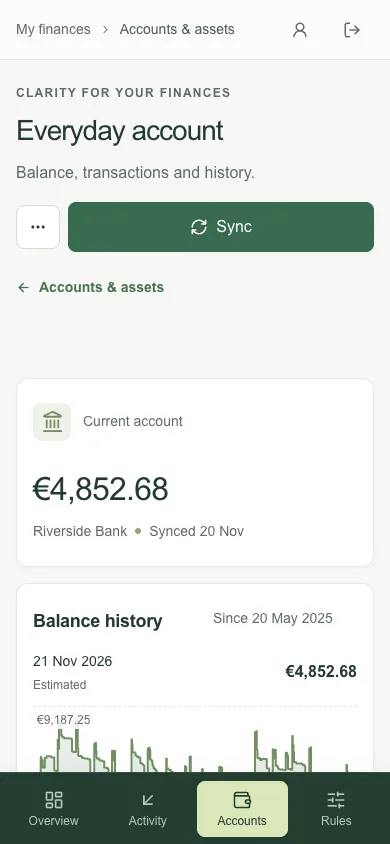
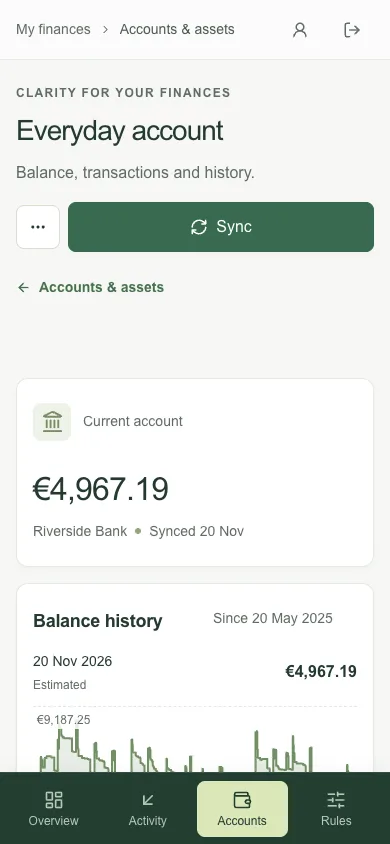
Link demo bank bookings to the sync runs that fetched them (#323)
Demo bank bookings carry bank:demo: references and link to the sync runs that
fetched them, so recent syncs show linked counts; the README screenshots and
setup docs are refreshed.

diff --git a/src/features/demo/server/demo-dataset.ts b/src/features/demo/server/demo-dataset.ts
@@ -19,6 +19,8 @@ export type DemoAccountData = DemoAccountDefinition & {
   valuations: DemoSnapshot[];
   /** The balance at the end of the last synced day; bank-connected accounts report it as their latest bank balance. */
   reported: DemoSnapshot;
+  /** The start of the recorded sync run that fetched a booking, by reference. */
+  importedAt: Record<string, string>;
 };
 
 /** A booking divided into category parts that add up to its amount, as a person does in the split dialog. */
@@ -237,6 +239,9 @@ class Ledger {
 
   readonly splits: DemoSplit[] = [];
 
+  /** The start of the sync run that fetched a bank booking, by reference; older bookings arrived before the recorded history. */
+  readonly importedAt = new Map<string, string>();
+
   readonly openings = {
     ...openingBalances
   };
@@ -272,7 +277,9 @@ class Ledger {
     }
 
     this.sequence += 1;
-    const reference = `${demoReferencePrefix}${String(this.sequence).padStart(5, "0")}`;
+    // Bank-connected bookings carry a bank reference, so recent syncs can show the bookings they fetched.
+    const prefix = demoAccounts[account].bank ? `bank:${demoReferencePrefix}` : demoReferencePrefix;
+    const reference = `${prefix}${String(this.sequence).padStart(5, "0")}`;
 
     this.entries[account].push({
       reference,
@@ -917,7 +924,12 @@ function accountData(ledger: Ledger, key: DemoAccountKey, valuations: DemoSnapsh
     reported: {
       date: reportedDate.toString(),
       amount: ledger.balanceAt(key, reportedDate)
-    }
+    },
+    importedAt: Object.fromEntries(ledger.entries[key].flatMap(entry => {
+      const importedAt = ledger.importedAt.get(entry.reference);
+
+      return importedAt ? [[entry.reference, importedAt]] : [];
+    }))
   };
 }
 
@@ -956,9 +968,8 @@ function connectionData(runDate: PlainDate) {
 function syncRunHistory(ledger: Ledger, random: DemoRandom): DemoSyncRun[] {
   const bankAccounts = (Object.keys(demoAccounts) as DemoAccountKey[]).filter(key => demoAccounts[key].bank);
   const runs: DemoSyncRun[] = [];
-
-  const bookedOn = (key: DemoAccountKey, date: PlainDate) => ledger.entries[key].filter(entry => entry.date === date.toString()).length;
-  let missed = 0;
+  const bookedOn = (key: DemoAccountKey, date: PlainDate) => ledger.entries[key].filter(entry => entry.date === date.toString());
+  let missed: Entry[] = [];
 
   for (let daysAgo = 14; daysAgo >= 1; daysAgo--) {
     const date = ledger.runDate.subtract({
@@ -968,18 +979,23 @@ function syncRunHistory(ledger: Ledger, random: DemoRandom): DemoSyncRun[] {
       days: 1
     });
     const failed = daysAgo === 4;
-    const insertedCount = bankAccounts.filter(key => !failed || key !== "onlineChecking").reduce((total, key) => total + bookedOn(key, booked), missed);
-
-    // The next run fetches what the failed run missed.
-    missed = failed ? bookedOn("onlineChecking", booked) : 0;
     const minute = random.integer(0, 4);
+    const startedAt = syncInstant(date, minute);
+    // Each run fetches the previous day's bookings; the run after the failed one also fetches what it missed.
+    const fetched = [...missed, ...bankAccounts.filter(key => !failed || key !== "onlineChecking").flatMap(key => bookedOn(key, booked))];
+
+    missed = failed ? bookedOn("onlineChecking", booked) : [];
+
+    for (const entry of fetched) {
+      ledger.importedAt.set(entry.reference, startedAt);
+    }
 
     runs.push({
       id: `demo-sync-run-${date.toString()}`,
-      startedAt: syncInstant(date, minute),
+      startedAt,
       finishedAt: syncInstant(date, minute + 1),
       status: failed ? "PARTIAL" : "SUCCESS",
-      insertedCount,
+      insertedCount: fetched.length,
       error: failed ? `${demoAccounts.onlineChecking.name}: The bank did not respond in time. Try again later.` : null
     });
   }

diff --git a/tests/demo-seed.test.ts b/tests/demo-seed.test.ts
@@ -12,7 +12,7 @@ import { buildDemoDataset } from "../src/features/demo/server/demo-dataset";
 import { DemoSeedRefusal, seedDemoData } from "../src/features/demo/server/demo-seed-service";
 import { listAccounts } from "../src/features/accounts/server/account-queries";
 import { pairAllTransfers } from "../src/features/transactions/server/transfer-pairing-repository";
-import { listSyncAccounts } from "../src/features/banking/server/sync-repository";
+import { linkedTransactionCount, listSyncAccounts } from "../src/features/banking/server/sync-repository";
 
 const firstRun = Temporal.PlainDate.from("2026-11-16");
 const secondRun = Temporal.PlainDate.from("2026-12-01");
@@ -173,7 +173,7 @@ test("re-running the demo seed replaces only demo rows and keeps bank-connected 
   assert.equal(seeded.length, expected + balanceBookings.length);
   assert.equal(balanceBookings.filter(row => row.type === "opening_balance").length, 10);
   // Counterparts the seed creates on a manual account carry their source booking in the reference, as when a person creates them; balances are booked as a person enters them.
-  assert.ok(seeded.every(row => ["demo:", "transfer:", "manual:"].some(prefix => row.provider_reference.startsWith(prefix))));
+  assert.ok(seeded.every(row => ["demo:", "bank:demo:", "transfer:", "manual:"].some(prefix => row.provider_reference.startsWith(prefix))));
   assert.equal(demoAccounts.length, 10);
   // Market values end on their last valuation; every other balance follows from the transactions.
   assert.equal(balances.get("demo-investment"), lastValuation("demo-investment"));
@@ -348,6 +348,14 @@ test("simulated bank connections show a sync history and splits but are never sy
   // Re-seeding replaces the history instead of adding to it; one run failed for a single account and the next succeeded.
   assert.equal(runs.length, 14);
   assert.deepEqual(runs.filter(run => run.status !== "SUCCESS").map(run => run.status), ["PARTIAL"]);
+  // Every run shows the bookings it fetched, as a real sync stamps them.
+  const linked = await db.select({
+    started_at: schema.syncRuns.started_at,
+    linked: linkedTransactionCount
+  }).from(schema.syncRuns).where(like(schema.syncRuns.id, "demo-%"));
+
+  assert.ok(runs.every(run => linked.find(row => row.started_at === run.started_at)?.linked === run.inserted_count));
+  assert.ok(runs.reduce((total, run) => total + run.inserted_count, 0) > 0);
   assert.equal(splitBookings.size, 3);
   assert.ok(splits.every(row => row.transactions.category_id === null && row.transaction_splits.category_id !== null));
   assert.ok([...splitBookings].every(([id, total]) => splits.find(row => row.transactions.id === id)?.transactions.amount_minor === total));

diff --git a/src/features/demo/server/demo-seed-repository.ts b/src/features/demo/server/demo-seed-repository.ts
@@ -24,6 +24,7 @@ export type DemoAccountRows = DemoAccountDefinition & {
   entries: CategorizedEntry[];
   valuations: DemoSnapshot[];
   reported: DemoSnapshot;
+  importedAt: Record<string, string>;
 };
 
 export type DemoSeedRows = {
@@ -134,7 +135,12 @@ async function insertAccount(tx: DatabaseTransaction, account: DemoAccountRows, 
     last_synced_at: bank ? lastSyncedAt : null
   });
   await recordManualBalance(tx, demoAccount(account), account.opening.date, account.opening.amount);
-  await upsertTransactions(tx, account.id, account.entries);
+  await upsertTransactions(tx, account.id, account.entries.filter(entry => !account.importedAt[entry.reference]));
+
+  // A sync stamps the rows it inserts with its start; recent syncs find their bookings by it.
+  for (const importedAt of new Set(Object.values(account.importedAt))) {
+    await upsertTransactions(tx, account.id, account.entries.filter(entry => account.importedAt[entry.reference] === importedAt), importedAt);
+  }
 
   if (bank) {
     await tx.insert(balanceSnapshots).values({

diff --git a/src/features/demo/server/demo-catalog.ts b/src/features/demo/server/demo-catalog.ts
@@ -4,7 +4,7 @@ import type { CategoryIconKey } from "@/features/categorization/category-icons";
 /** Every row the demo seed owns has an ID with this prefix; re-running the seed replaces exactly these rows. */
 export const demoIdPrefix = "demo-";
 
-/** Provider reference prefix of seeded transactions, distinct from bank (`bank:`) and CSV references. */
+/** Provider reference prefix of seeded transactions; on simulated bank accounts it follows the bank prefix (`bank:demo:`), as synced bookings carry `bank:`. */
 export const demoReferencePrefix = "demo:";
 
 export type DemoAccountKey = "checking" | "onlineChecking" | "joint" | "cash" | "savings" | "creditCard" | "investment" | "property" | "car" | "loan";

diff --git a/docs/setup.md b/docs/setup.md
@@ -23,7 +23,7 @@ JSON API request bodies above 2 MiB are rejected with 413 while they are read; C
 - **Content:** about 18 months ending on the run date (Europe/Vienna) for ten accounts of one household: an everyday checking account, a joint household account and an emergency fund at one bank, an online current account at a second bank, a credit card, a cash wallet, an ETF portfolio, a rental flat, a family car and the flat's mortgage. It includes salary with holiday and Christmas bonuses, rent, rental income, utilities, insurance, subscriptions, groceries, car costs, transport, dining, leisure, health, a summer holiday and short trips (one paid in pounds), December gifts, larger one-off purchases, refunds, three split purchases, interest and dividends, card statements, ATM withdrawals, transfers between the demo accounts linked in pairs, special loan repayments whose counterpart Ufer created on the manual mortgage account, a monthly transfer to an untracked savings account, monthly portfolio valuations, quarterly property and car valuations and amortizing loan interest. Seventeen enabled rules and eight added categories categorize all but about ten income and expense rows; one paused rule shows a disabled state. Amounts are EUR; all names, institutions and IBANs are fictional, and the IBANs use bank codes no Austrian bank uses.
 - **Simulated bank connections:** the checking, joint, savings and credit card accounts belong to three linked connections with a reported balance, a last sync time and two weeks of daily sync history in which one run failed for one account and the next run recovered. The connections hold no provider session; sync skips demo accounts and removing a demo connection revokes nothing, so they never contact Enable Banking.
 - **Reproducible:** the same run date produces the same rows. Re-run the command when the history should end today again. `--date=YYYY-MM-DD` (today or earlier) reproduces the dataset of another day.
-- **Scope:** demo rows have `demo-` IDs and `demo:` transaction references. A run replaces, in one transaction, the demo accounts with every transaction, split and balance snapshot on them, the demo connections, the demo sync runs and the demo rules. Demo categories are updated in place because synced transactions may reference them; when a category with the same name already exists, the demo rules use it instead. Users, sessions, other bank connections, their accounts and transactions, other sync history and all other rows stay untouched.
+- **Scope:** demo rows have `demo-` IDs; their transactions carry `demo:` references, or `bank:demo:` on the simulated bank accounts so their sync runs list them. A run replaces, in one transaction, the demo accounts with every transaction, split and balance snapshot on them, the demo connections, the demo sync runs and the demo rules. Demo categories are updated in place because synced transactions may reference them; when a category with the same name already exists, the demo rules use it instead. Users, sessions, other bank connections, their accounts and transactions, other sync history and all other rows stay untouched.
 - **Guard:** the command refuses to run without `--confirm`, when `ENABLE_BANKING_ENVIRONMENT` is not `SANDBOX`, or when a manual or CSV account the seed did not create holds transactions. Sandbox bank-connected data does not block it. Manual accounts without transactions, such as a test valuation, are allowed.
 
 To seed a local throwaway database, point `DATABASE_URL` at a new file, for example `DATABASE_URL=file:data/demo.db npm run demo:seed -- --confirm`, then provision a user with the operator [user enrollment](user-management.md#operator-enrollment) and start the app with the same `DATABASE_URL`. An empty database is initialized with the checked-in changesets first; an existing database with pending migrations is refused as at application startup. Seeding the shared preview database is described in the [deployment guide](vercel-deployment.md#preview-demo-data).
